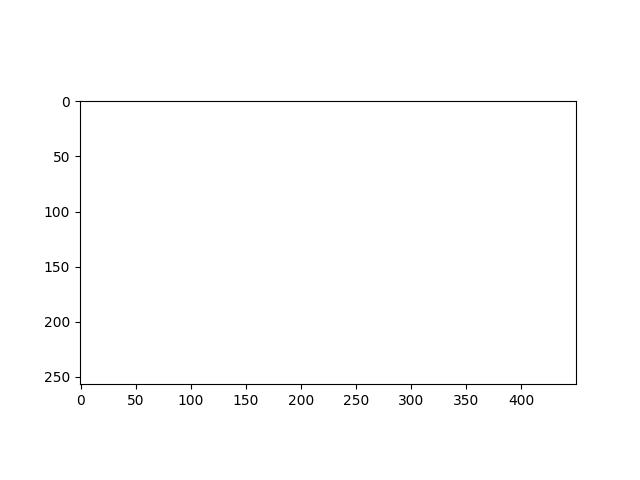
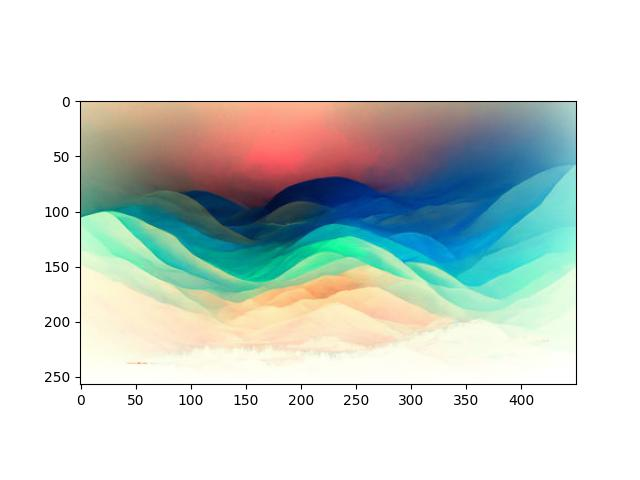
final Array_01 python

diff --git a/Python_1_Array/ex05/tester.py b/Python_1_Array/ex05/tester.py
@@ -14,6 +14,6 @@ blue = ft_blue(array)
 invert = ft_invert(array)
 grey = ft_grey(array)
 print(ft_invert.__doc__)
-plt.imshow(grey)
-plt.savefig("landscape_grey.jpg")
+plt.imshow(invert)
+plt.savefig("landscape_invert.jpg")
 
